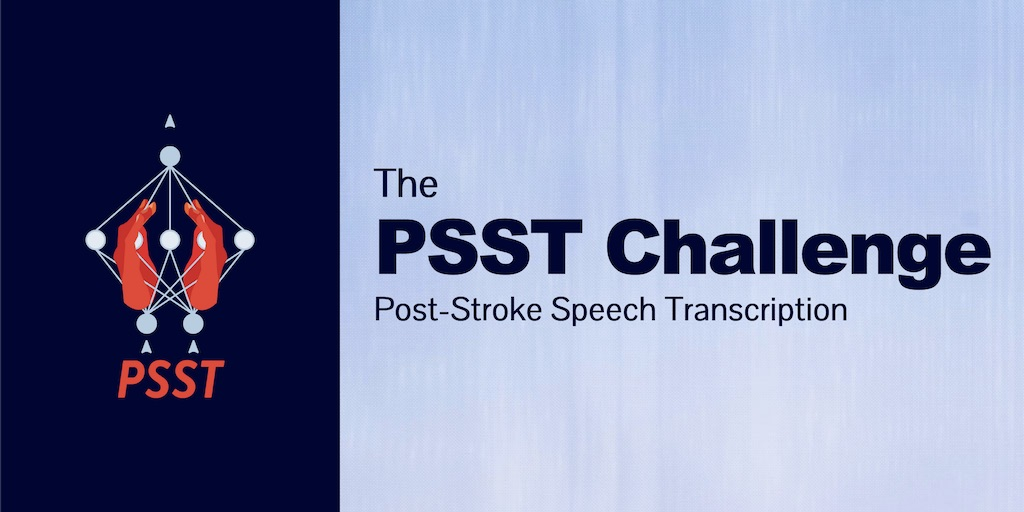
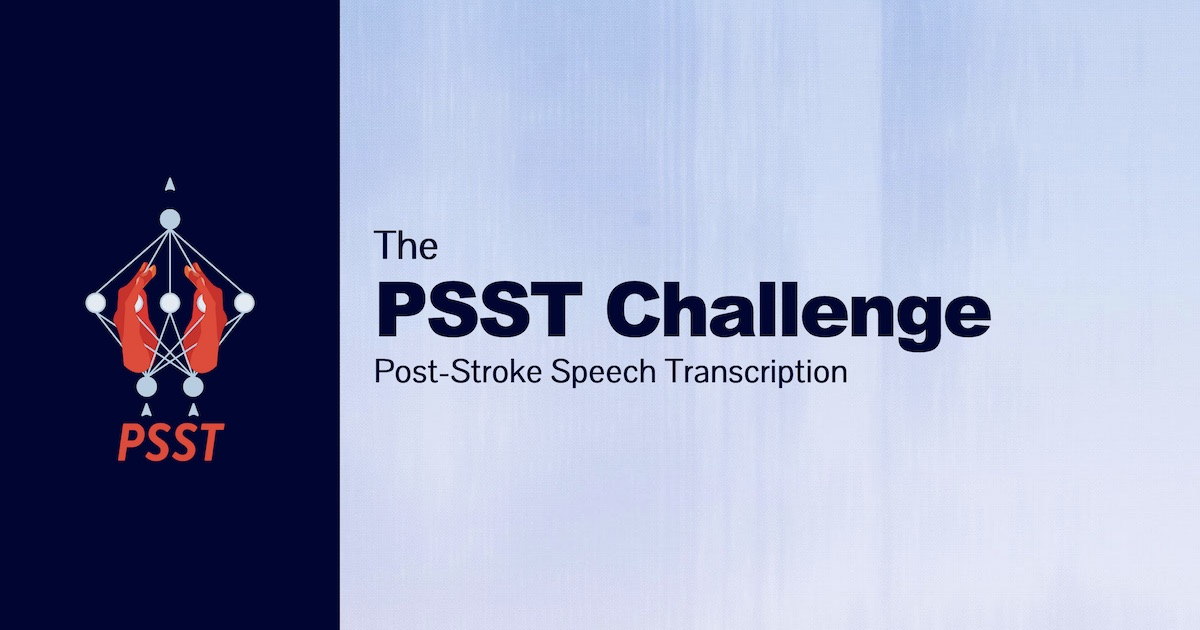
OG meta tags etc

diff --git a/docs/_includes/head-meta.html b/docs/_includes/head-meta.html
@@ -1,20 +1,11 @@
-<!-- Search Engine -->
 <meta name="description" content="{{site.description}}">
-<!--<meta name="image" content="TODO: Site Image">-->
-
-<!-- Schema.org for Google -->
 <meta itemprop="name" content="{{page.title}} — {{site.title}}">
 <meta itemprop="description" content="{{site.description}}">
-<!--<meta itemprop="image" content="TODO: Site Image">-->
-
-<!-- Twitter -->
 <meta name="twitter:card" content="summary">
 <meta name="twitter:title" content="{{page.title}} — {{site.title}}">
 <meta name="twitter:description" content="{{site.description}}">
 <!--<meta name="twitter:site" content="@twitterhandle">-->
-<meta name="twitter:image:src" content="https://psst.study/assets/images/metatags/psst-og.jpg">
-
-<!-- Open Graph general (Facebook, Pinterest & Google+) -->
+<meta name="twitter:image:src" content="https://psst.study/assets/images/metatags/psst-twitter.jpg">
 <meta name="og:title" content="{{page.title}} — {{site.title}}">
 <meta name="og:description" content="{{site.description}}">
 <meta name="og:image" content="https://psst.study/assets/images/metatags/psst-og.jpg">
